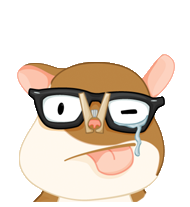
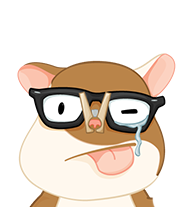
re-slice the tomsters for better quality (and add a new one :)

diff --git a/app/components/tomster-head/component.js b/app/components/tomster-head/component.js
@@ -11,6 +11,7 @@ const IMAGES = [
   "assets/images/tomster-2.png",
   "assets/images/tomster-3.png",
   "assets/images/tomster-4.png",
+  "assets/images/tomster-5.png",
 ];
 
 

diff --git a/app/styles/app.scss b/app/styles/app.scss
@@ -222,5 +222,6 @@ button, .button {
 .tomster-snippet {
   z-index: 5;
   position: relative;
+  background-color: rgba(255,255,255,0.9);
 }
 
